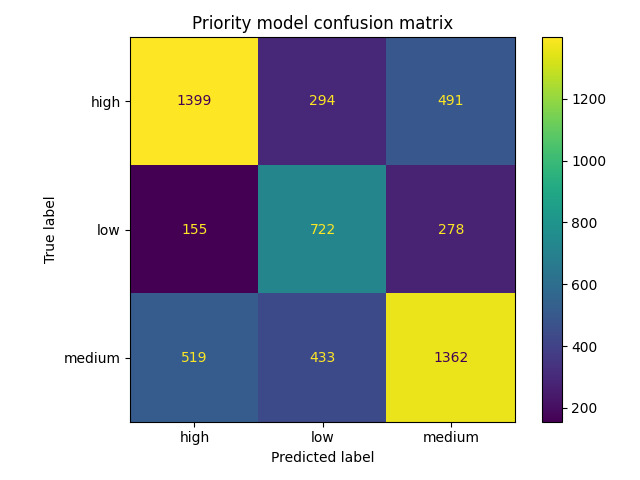
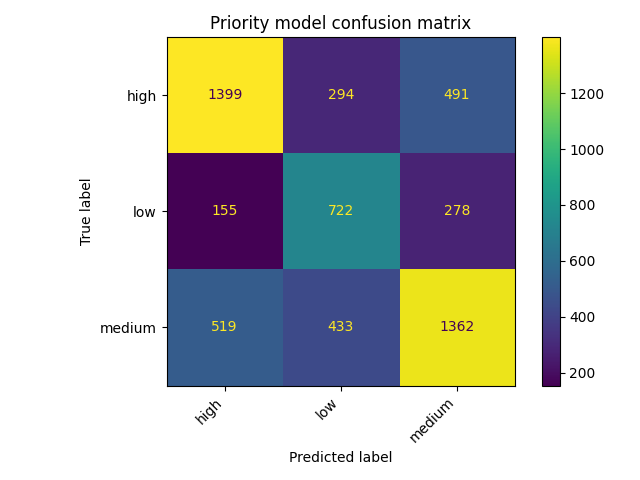
train ticket priority and queue classifiers

diff --git a/src/train_text_classifier.py b/src/train_text_classifier.py
@@ -1,5 +1,7 @@
+import argparse
 import json
 import sqlite3
+from pathlib import Path
 
 import joblib
 import matplotlib.pyplot as plt
@@ -23,22 +25,22 @@ from src.config import DATABASE_PATH, MODELS_DIR, REPORTS_DIR, TICKETS_TABLE_NAM
 
 RANDOM_STATE = 42
 TEST_SIZE = 0.2
-
 TEXT_COLUMN = "text"
-TARGET_COLUMN = "priority"
+
+ALLOWED_TARGETS = ["priority", "queue"]
 
 
-def load_data_from_database() -> pd.DataFrame:
+def load_data_from_database(target_column: str) -> pd.DataFrame:
     query = f"""
     SELECT
         ticket_id,
         text,
-        priority
+        {target_column}
     FROM {TICKETS_TABLE_NAME}
     WHERE text IS NOT NULL
       AND LENGTH(TRIM(text)) > 0
-      AND priority IS NOT NULL
-      AND priority != 'unknown';
+      AND {target_column} IS NOT NULL
+      AND {target_column} != 'unknown';
     """
 
     with sqlite3.connect(DATABASE_PATH) as connection:
@@ -78,19 +80,31 @@ def build_model_pipeline() -> Pipeline:
 def calculate_metrics(y_test, y_pred) -> dict:
     metrics = {
         "accuracy": accuracy_score(y_test, y_pred),
-        "precision_macro": precision_score(y_test, y_pred, average="macro", zero_division=0),
-        "recall_macro": recall_score(y_test, y_pred, average="macro", zero_division=0),
-        "f1_macro": f1_score(y_test, y_pred, average="macro", zero_division=0),
-        "precision_weighted": precision_score(y_test, y_pred, average="weighted", zero_division=0),
-        "recall_weighted": recall_score(y_test, y_pred, average="weighted", zero_division=0),
-        "f1_weighted": f1_score(y_test, y_pred, average="weighted", zero_division=0),
+        "precision_macro": precision_score(
+            y_test, y_pred, average="macro", zero_division=0
+        ),
+        "recall_macro": recall_score(
+            y_test, y_pred, average="macro", zero_division=0
+        ),
+        "f1_macro": f1_score(
+            y_test, y_pred, average="macro", zero_division=0
+        ),
+        "precision_weighted": precision_score(
+            y_test, y_pred, average="weighted", zero_division=0
+        ),
+        "recall_weighted": recall_score(
+            y_test, y_pred, average="weighted", zero_division=0
+        ),
+        "f1_weighted": f1_score(
+            y_test, y_pred, average="weighted", zero_division=0
+        ),
     }
 
     return metrics
 
 
-def save_metrics(metrics: dict) -> None:
-    output_path = REPORTS_DIR / "priority_model_metrics.json"
+def save_metrics(metrics: dict, target_column: str) -> None:
+    output_path = REPORTS_DIR / f"{target_column}_model_metrics.json"
 
     with open(output_path, "w", encoding="utf-8") as file:
         json.dump(metrics, file, indent=4)
@@ -98,8 +112,8 @@ def save_metrics(metrics: dict) -> None:
     print(f"Metrics saved to: {output_path}")
 
 
-def save_classification_report(y_test, y_pred) -> None:
-    output_path = REPORTS_DIR / "priority_classification_report.txt"
+def save_classification_report(y_test, y_pred, target_column: str) -> None:
+    output_path = REPORTS_DIR / f"{target_column}_classification_report.txt"
 
     report = classification_report(y_test, y_pred, zero_division=0)
 
@@ -112,7 +126,7 @@ def save_classification_report(y_test, y_pred) -> None:
     print(report)
 
 
-def save_confusion_matrix(y_test, y_pred) -> None:
+def save_confusion_matrix(y_test, y_pred, target_column: str) -> None:
     labels = sorted(y_test.unique())
 
     matrix = confusion_matrix(y_test, y_pred, labels=labels)
@@ -123,48 +137,57 @@ def save_confusion_matrix(y_test, y_pred) -> None:
         columns=[f"predicted_{label}" for label in labels],
     )
 
-    csv_output_path = REPORTS_DIR / "priority_confusion_matrix.csv"
+    csv_output_path = REPORTS_DIR / f"{target_column}_confusion_matrix.csv"
     matrix_df.to_csv(csv_output_path)
 
     print(f"Confusion matrix CSV saved to: {csv_output_path}")
 
     display = ConfusionMatrixDisplay(confusion_matrix=matrix, display_labels=labels)
     display.plot(values_format="d")
-    plt.title("Priority model confusion matrix")
+    plt.title(f"{target_column.capitalize()} model confusion matrix")
+    plt.xticks(rotation=45, ha="right")
     plt.tight_layout()
 
-    image_output_path = REPORTS_DIR / "priority_confusion_matrix.png"
+    image_output_path = REPORTS_DIR / f"{target_column}_confusion_matrix.png"
     plt.savefig(image_output_path)
     plt.close()
 
     print(f"Confusion matrix image saved to: {image_output_path}")
 
 
-def save_model(model: Pipeline) -> None:
+def save_model(model: Pipeline, target_column: str) -> None:
     MODELS_DIR.mkdir(parents=True, exist_ok=True)
 
-    model_output_path = MODELS_DIR / "priority_model.joblib"
+    model_output_path = MODELS_DIR / f"{target_column}_model.joblib"
     joblib.dump(model, model_output_path)
 
     print(f"Model saved to: {model_output_path}")
 
 
-def main():
+def train_model(target_column: str) -> None:
+    if target_column not in ALLOWED_TARGETS:
+        raise ValueError(
+            f"Unsupported target: {target_column}. "
+            f"Allowed targets: {ALLOWED_TARGETS}"
+        )
+
     REPORTS_DIR.mkdir(parents=True, exist_ok=True)
     MODELS_DIR.mkdir(parents=True, exist_ok=True)
 
-    df = load_data_from_database()
+    df = load_data_from_database(target_column)
 
+    print(f"Training model for target: {target_column}")
+    print()
     print("Loaded dataset:")
     print(df.shape)
     print()
 
-    print("Priority distribution:")
-    print(df[TARGET_COLUMN].value_counts())
+    print(f"{target_column.capitalize()} distribution:")
+    print(df[target_column].value_counts())
     print()
 
     X = df[TEXT_COLUMN]
-    y = df[TARGET_COLUMN]
+    y = df[target_column]
 
     X_train, X_test, y_train, y_test = train_test_split(
         X,
@@ -194,10 +217,31 @@ def main():
         print(f"{metric_name}: {metric_value:.4f}")
     print()
 
-    save_metrics(metrics)
-    save_classification_report(y_test, y_pred)
-    save_confusion_matrix(y_test, y_pred)
-    save_model(model)
+    save_metrics(metrics, target_column)
+    save_classification_report(y_test, y_pred, target_column)
+    save_confusion_matrix(y_test, y_pred, target_column)
+    save_model(model, target_column)
+
+
+def parse_args():
+    parser = argparse.ArgumentParser(
+        description="Train text classifier for support ticket data."
+    )
+
+    parser.add_argument(
+        "--target",
+        type=str,
+        required=True,
+        choices=ALLOWED_TARGETS,
+        help="Target column to predict.",
+    )
+
+    return parser.parse_args()
+
+
+def main():
+    args = parse_args()
+    train_model(target_column=args.target)
 
 
 if __name__ == "__main__":
